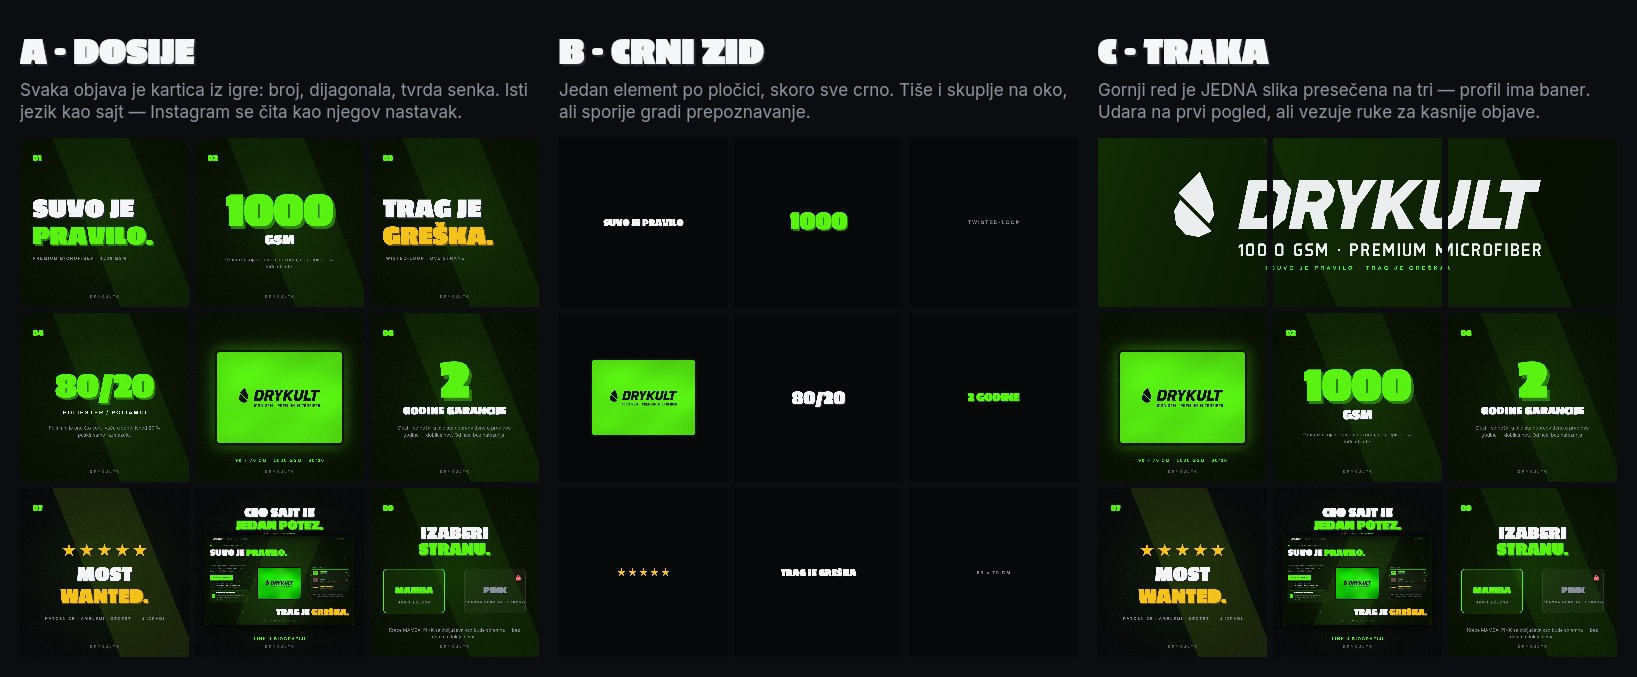
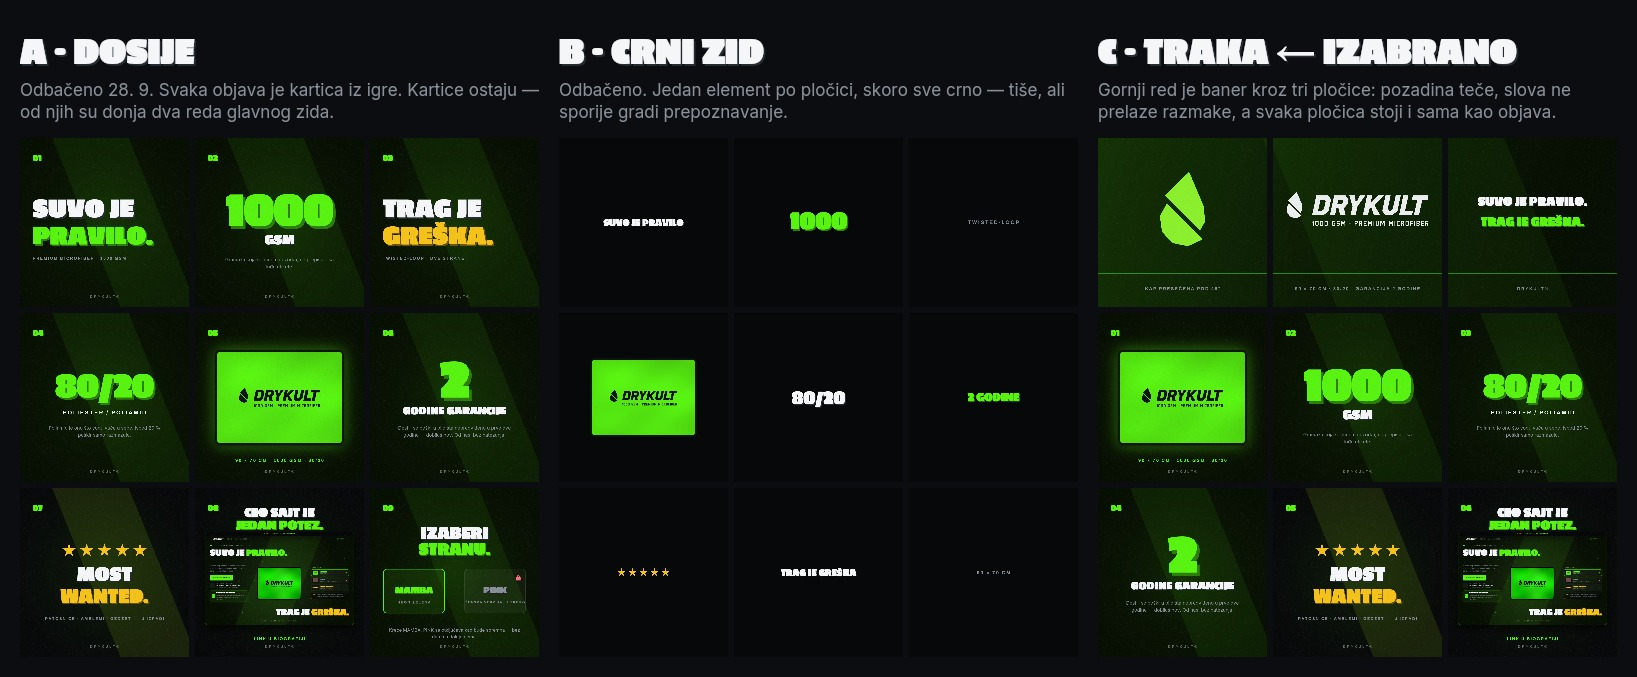
Glavni zid je C (TRAKA): baner prepravljen da prezivi mrezu
Stefanov izbor 28. 9. Prva verzija trake je imala dva problema koja su sad reseni:

- razmaci izmedju plocica su sekli slova ("100 0 GSM", "M|ICROFIBER") jer je
  logotip bio razvucen preko cele sirine; sada nijedan tekst ne prelazi granicu,
  a utisak jedne slike nose pozadina i tanka neon linija kroz sve tri
- trecina logotipa nije objava: u tudjem feedu se vidi jedna slika, pa svaka
  plocica stoji i sama - znak / logotip / manifest

Broj u uglu vise nije upisan u crtez nego dolazi spolja, jer pripada mestu u zidu
a ne objavi. Dok je bio upisan, zid je pokazivao 02, 04, 06, 07 i izgledao kao
greska; sada su kartice 01-06, traka bez brojeva.

Ostaje pravilo koje se ne moze zaobici: objavljuje se po TRI, inace se traka
razbije.

diff --git a/plan/06-INSTAGRAM.md b/plan/06-INSTAGRAM.md
@@ -7,7 +7,7 @@ objavu pa otvori sajt, mora da oseti da je ušao na isto mesto.
 Sve je nacrtano skriptom: `node scripts/gen-instagram.mjs` → folder `instagram/`.
 Menjaš tekst u skripti, pustiš je ponovo, sve se osveži. Ništa se ne crta rukom.
 
-> **ODLUČENO 28. 9. 2026 (Stefan):** zid ide u pravcu **A — DOSIJE**, profilna je
+> **ODLUČENO 28. 9. 2026 (Stefan):** zid ide u pravcu **C — TRAKA**, profilna je
 > **D — znak u nišanu**, biografija je **A — manifest**. Sve troje je ispod
 > podebljano i izvedeno; ostale opcije ostaju zapisane samo da se zna šta je
 > odbačeno i zašto, da se za pola godine ne prežvakava isto.
@@ -92,42 +92,60 @@ ulogu su tri stvari, i sve tri su napravljene:
 
 Pregled: `instagram/pregled/pravci.jpg`, mockup profila: `instagram/pregled/profil-mockup.jpg`.
 
-**A — DOSIJE** ← **IZABRANO**
-Svaka objava je kartica iz igre: broj u uglu, dijagonala, tvrda senka. Isti jezik
-kao sajt, pa se Instagram čita kao njegov nastavak. Skalira se — svaka nova objava
-je samo sledeća kartica, ništa se ne raspada.
+**A — DOSIJE** *(odbačeno, ali kartice ostaju)*
+Svaka objava je kartica iz igre: broj u uglu, dijagonala, tvrda senka. Kao pravac
+nije izabran, ali su same kartice ostale — od njih su donja dva reda glavnog zida.
 
 **B — CRNI ZID**
 Jedan element po pločici, skoro sve crno. Tiše i skuplje na oko, ali gradi
 prepoznavanje sporije i traži mnogo više objava da se profil „napuni".
 
-**C — TRAKA**
-Gornji red je jedna slika presečena na tri, pa profil dobije baner. Udara na prvi
-pogled. Dve mane, obe stvarne: **razmaci između pločica seku slova** (vidi se na
-pregledu), i svaka sledeća objava pomera traku — kad objaviš deseti post, baner se
-raspao. Koristi se kao jednokratan potez za lansiranje, ne kao sistem.
+**C — TRAKA** ← **IZABRANO**
+Gornji red je baner kroz tri pločice, ispod idu kartice. Udara na prvi pogled.
+Dve mane sa prve verzije su **rešene**, treća je pravilo rada:
+
+1. **Razmaci su sekli slova.** Instagram ostavlja procep između pločica, a mreža
+   seče tačno na trećinama — prva verzija je razvukla logotip preko cele širine i
+   procep je pao usred „1000" i usred „MICROFIBER". Sada **nijedan tekst ne prelazi
+   granicu**: utisak jedne slike nose pozadina (gradijent, dijagonala, zrno) i
+   tanka neon linija koja teče kroz sve tri na istoj visini. Linija se preseca
+   čisto, slova ne.
+2. **Trećina logotipa nije objava.** U tuđem feedu se ne vidi zid nego jedna
+   slika. Zato svaka pločica stoji i sama: leva je **znak**, srednja **logotip sa
+   specifikacijom**, desna **manifest**.
+3. **Objavljuje se po TRI.** Svaka pojedinačna objava pomera mrežu za jedno mesto
+   i razbija traku. Dok se objavljuje u trojkama, traka ostaje cela — samo klizi
+   naniže kroz profil. To je cena ovog pravca i nema je kako zaobići.
 
 ## 6.6 Prvih devet objava
 
-Fajlovi: `instagram/zid/dosije-01…09-*.jpg` (1080 × 1080).
+Pregled celog zida: `instagram/pregled/zid-glavni.jpg`.
 
-> **Objavljuje se UNAZAD.** Instagram stavlja najnoviju objavu gore levo, pa se
-> prvo objavljuje `09`, poslednje `01`. Tek tako se zid složi onako kako je crtan.
-
-| # | objava | tekst uz sliku |
+| mesto | fajl | tekst uz sliku |
 |---|---|---|
-| 01 | SUVO JE PRAVILO | Peškir koji ne ostavlja trag nije luksuz nego alat. 1000 GSM, twisted-loop, 90 × 70 cm. Prva serija se pravi — sajt je gore, link u biografiji. |
-| 02 | 1000 GSM | 1000 g/m² je ono što fabrika štampa na etiketi. Izmerićemo na uzorku čim stigne; ako ne izađe 1000, promenićemo broj — nećemo ćutati. 90 × 70 cm = 0,63 m², puta 1000 g/m² = 630 g tkanine. |
-| 03 | TRAG JE GREŠKA | Twisted-loop strana kupi vodu iz prve. Plišana polira ono što ostane. Jedan prelaz preko panela i nema ni kapi ni traga. |
-| 04 | 80/20 | 80 % poliester, 20 % poliamid. Poliamid je ono što vodu vuče u sebe — ispod 20 % peškir počinje da razmazuje umesto da suši. |
-| 05 | PEŠKIR | Zeleno telo, crna štampa, 90 × 70 cm. **Slika je fabrički render** — prave fotke idu čim stignu uzorci. |
-| 06 | 2 GODINE GARANCIJE | Desi li se peškiru bilo šta nepredviđeno u prve dve godine — dobijaš nov. Od nas, bez natezanja. |
-| 07 | MOST WANTED | Patosnice. Amblemi za tablu. Gedžeti za kabinu. U izradi, bez datuma dok ne budu spremni. |
-| 08 | SAJT | Ceo sajt je jedan potez — skroluješ, peškir leti. Ima i deo gde sam obrišeš kapi i vidiš koliko si pokupio. Link u biografiji. |
-| 09 | IZABERI STRANU | MAMBA je tu. PINK je ženska verzija i još se pravi — otključava se kad bude spremna, bez datuma dok je nema. |
+| 1 | `zid/traka-01-znak.jpg` | Znak je **kap presečena pod 45°** — isti rez koji ide kroz slova u logotipu. Voda koja je presečena i više ne pada. |
+| 2 | `zid/traka-02-logo.jpg` | DRYKULT. 1000 GSM, premium microfiber, 90 × 70 cm, 80/20. Garancija dve godine. Prva serija se pravi. |
+| 3 | `zid/traka-03-manifest.jpg` | Suvo je pravilo. Trag je greška. Peškir koji ostavlja trag nije loš peškir — nije peškir. |
+| 4 | `zid/kartica-01-proizvod.jpg` | Zeleno telo, crna štampa, 90 × 70 cm. **Slika je fabrički render** — prave fotke idu čim stignu uzorci. |
+| 5 | `zid/kartica-02-gsm.jpg` | 1000 g/m² je ono što fabrika štampa na etiketi. Izmerićemo na uzorku čim stigne; ako ne izađe 1000, promenićemo broj — nećemo ćutati. 90 × 70 cm = 0,63 m², puta 1000 g/m² = 630 g tkanine. |
+| 6 | `zid/kartica-03-sastav.jpg` | 80 % poliester, 20 % poliamid. Poliamid je ono što vodu vuče u sebe — ispod 20 % peškir počinje da razmazuje umesto da suši. |
+| 7 | `zid/kartica-04-garancija.jpg` | Desi li se peškiru bilo šta nepredviđeno u prve dve godine — dobijaš nov. Od nas, bez natezanja. |
+| 8 | `zid/kartica-05-wanted.jpg` | Patosnice. Amblemi za tablu. Gedžeti za kabinu. U izradi, bez datuma dok ne budu spremni. |
+| 9 | `zid/kartica-06-sajt.jpg` | Ceo sajt je jedan potez — skroluješ, peškir leti. Ima i deo gde sam obrišeš kapi i vidiš koliko si pokupio. Link u biografiji. |
 
-**Post 05 mora da kaže da je render.** To nije sitnica: slika proizvoda koji još
-nije u rukama, bez te rečenice, je tvrdnja koju ne možemo da podupremo.
+> **Objavljuje se UNAZAD**, jer Instagram stavlja najnoviju objavu gore levo.
+> Tačan redosled kucanja:
+>
+> `kartica-06` → `kartica-05` → `kartica-04` → `kartica-03` → `kartica-02` →
+> `kartica-01` → `traka-03` → `traka-02` → **`traka-01` poslednja**.
+>
+> Tek tako se zid složi onako kako je nacrtan.
+
+**Post na 4. mestu mora da kaže da je render.** To nije sitnica: slika proizvoda
+koji još nije u rukama, bez te rečenice, je tvrdnja koju ne možemo da podupremo.
+
+**Deseta objava razbija traku.** Sledeća serija ide u trojci — prva sledeća kartica
+je „izaberi stranu" (`zid/` se regeneriše skriptom), pa još dve.
 
 ## 6.7 Šta se objavljuje dok se čeka roba
 
@@ -180,7 +198,7 @@ Tekst uz reel:
 
 - [ ] Uzmi ručku `@drykult` (i na TikToku)
 - [x] ~~Izaberi profilnu i biografiju~~ — **D (nišan)** i **A (manifest)**, 28. 9.
-- [x] ~~Reci koji pravac zida~~ — **A (DOSIJE)**, 28. 9.
+- [x] ~~Reci koji pravac zida~~ — **C (TRAKA)**, 28. 9.
 - [ ] Domen, da biografija ne vodi na `vercel.app` (`plan/01` 1.3)
 - [ ] Odluči da li ide i TikTok odmah — isti materijal, samo uspravan format
       (reel je već 9:16, ide bez ijedne izmene)
